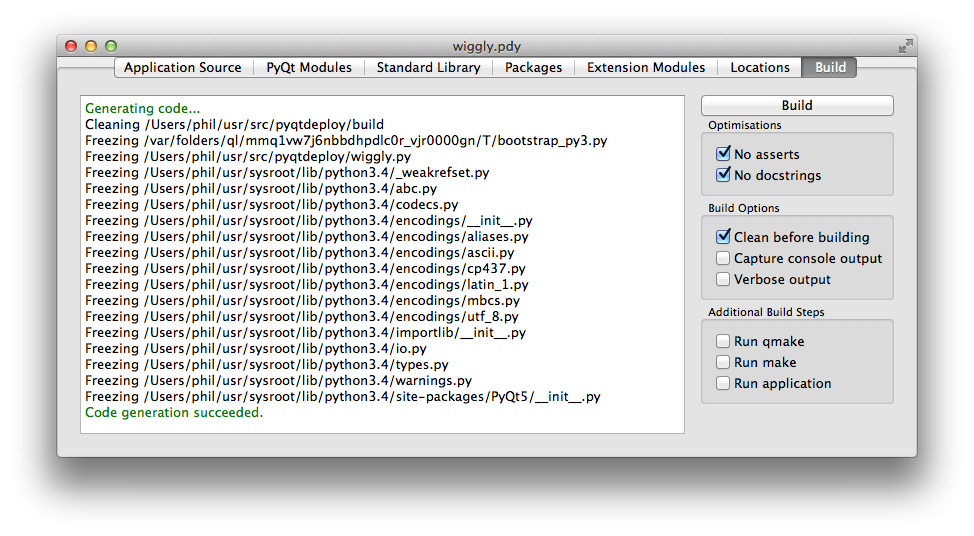
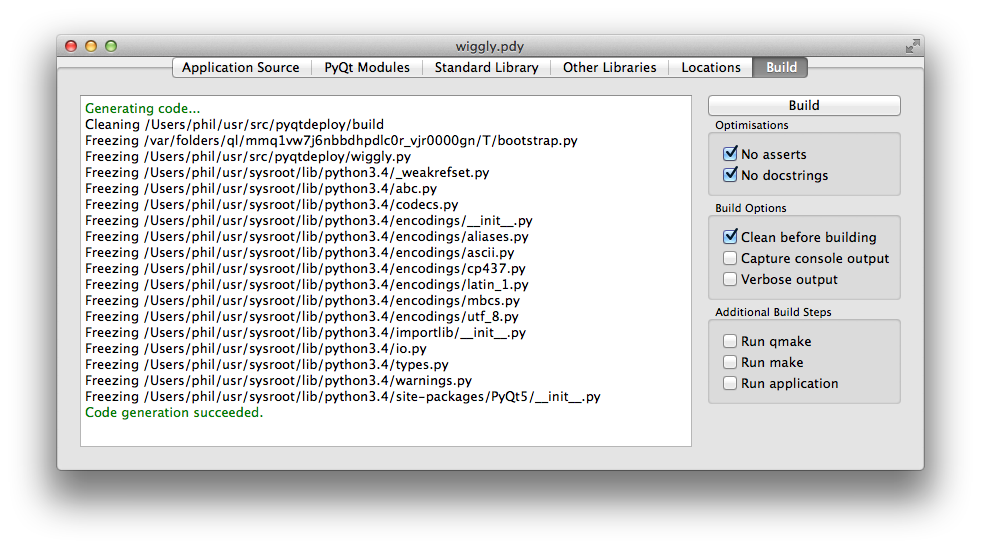
Updated the docs related to the standard library extension modules.

Changed region(s): [[0.0616, 0.0597, 0.9548, 0.7761], [0.0616, 0.806, 0.9548, 0.8657]]

diff --git a/doc/tutorial.rst b/doc/tutorial.rst
@@ -147,13 +147,13 @@ automatically included as dependencies.
 Defining the Standard Library Packages
 --------------------------------------
 
-The tab for defining the Python standard library packages used by the
+The sub-tab for defining the Python standard library packages used by the
 application is shown below.
 
 .. image:: /images/stdlib_packages_tab.png
     :align: center
 
-This tab is used to scan the directory containing the target Python
+This sub-tab is used to scan the directory containing the target Python
 interpreter's standard library.  You then specify which individual modules are
 needed, either implicitly or explicitly, by the application.
 :program:`pyqtdeploy` does not automatically handle inter-module dependencies.
@@ -161,22 +161,56 @@ needed, either implicitly or explicitly, by the application.
 The ``wiggly.py`` script does not explicitly import any standard Python module
 (except for the :mod:`sys` module which is implemented as a builtin).  However,
 :program:`pyqtdeploy` will ensure that all modules that it depends on
-internally are included so, for example, the above shows that the :mod:`types`
-and :mod:`warnings` modules will be included and cannot be changed.
+internally are included so, for example, the above shows that the
+:mod:`_weakrefset` and :mod:`abc` modules will be included and cannot be
+changed.
+
+
+Defining the Standard Library Extension Modules
+-----------------------------------------------
+
+The sub-tab for defining the Python standard library C extension modules used
+by the application is shown below.
+
+.. image:: /images/stdlib_extension_modules_tab.png
+    :align: center
+
+This sub-tab is used to select which of the standard library C extension
+modules are needed by the application and, optionally, to configure how those
+modules are compiled.  These extension modules usually exist for one of two
+reasons:
+
+- they interface with external libraries to allow those libraries to be
+  accessed from Python.  For example if you require SSL support then you need
+  to specify the :mod:`_ssl` extension module.
+
+- they provide an optional, faster implementation of a standard library package
+  implemented in Python.  For example the :mod:`_datetime` extension module, if
+  available, will provide a speedup to the :mod:`datetime` package.
+
+To enable an extension module simply click on the corresponding check box.
+This will also make the ``DEFINES``, ``INCLUDEPATH`` and ``LIBS`` fields for
+the extension module editable allowing those values to be set appropriately.
+If the extension module is linked against an external library then you may need
+to specify the location of the library's header files in the ``INCLUDEPATH``
+field and add a ``-L`` flag to the ``LIBS`` field if the library is not
+installed in locations that will be found automatically by the compiler and
+linker.
 
 
 Defining Additional Packages
 ----------------------------
 
-The tab for defining additional packages used by the application is shown
+The sub-tab for defining additional packages used by the application is shown
 below.
 
-.. image:: /images/packages_tab.png
+.. image:: /images/other_packages_tab.png
     :align: center
 
 This tab is used to scan a number of directories containing additional Python
-packages.  You then specify which individual modules are needed, either
-implicitly or explicitly, by the application.
+packages (i.e. other than those that are part of the Python standard library).
+You then specify which individual modules are needed, either implicitly or
+explicitly, by the application.
 
 By default the only directory defined is the target Python interpreter's
 ``site-packages`` directory which, unless you have installed additional
@@ -192,25 +226,26 @@ installed.
 The ``wiggly.py`` script does not use any additional Python packages.
 
 
-Defining the Extension Modules
-------------------------------
+Defining Additional Extension Modules
+-------------------------------------
 
-The tab for defining the C extension modules used by the application is shown
-below.
+The sub-tab for defining additional C extension modules used by the application
+is shown below.
 
-.. image:: /images/extension_modules_tab.png
+.. image:: /images/other_extension_modules_tab.png
     :align: center
 
-This tab is used to specify any third-party C extension modules that will be
-statically linked into the Python interpreter library.  For each extension
-module its name and the directory containing it must be specified.  On Windows
-an extension module will have a ``.lib`` filename suffix.  The suffix will be
-``.a`` on most other platforms.
+This tab is used to specify any additional C extension modules (i.e. other than
+those that are part of the Python standard library) that will be statically
+linked into the Python interpreter library.  For each extension module its name
+and the directory containing it must be specified.  On Windows an extension
+module will have a ``.lib`` filename suffix.  The suffix will be ``.a`` on most
+other platforms.
 
 To edit the list just double-click on the entry to modify or delete.  To add a
 new entry just double-click the list after the last entry.
 
-The ``wiggly.py`` script does not use any third-party C extension modules.
+The ``wiggly.py`` script does not use any additional C extension modules.
 
 
 Defining File and Directory Locations
@@ -229,6 +264,11 @@ The tab for defining the locations of various files and directories needed by
     can be executed by the deployed application.  (Of course if you are not
     cross-compiling the application then the host and target Python
     installations are the same.)
+
+**Source directory**
+    is used to specify the name of the directory containing the Python source
+    code.  It is only required if you are including one or more of the Python
+    standard library C extension modules in your application.
 
 **Include directory**
     is used to specify the name of the directory containing the target Python
